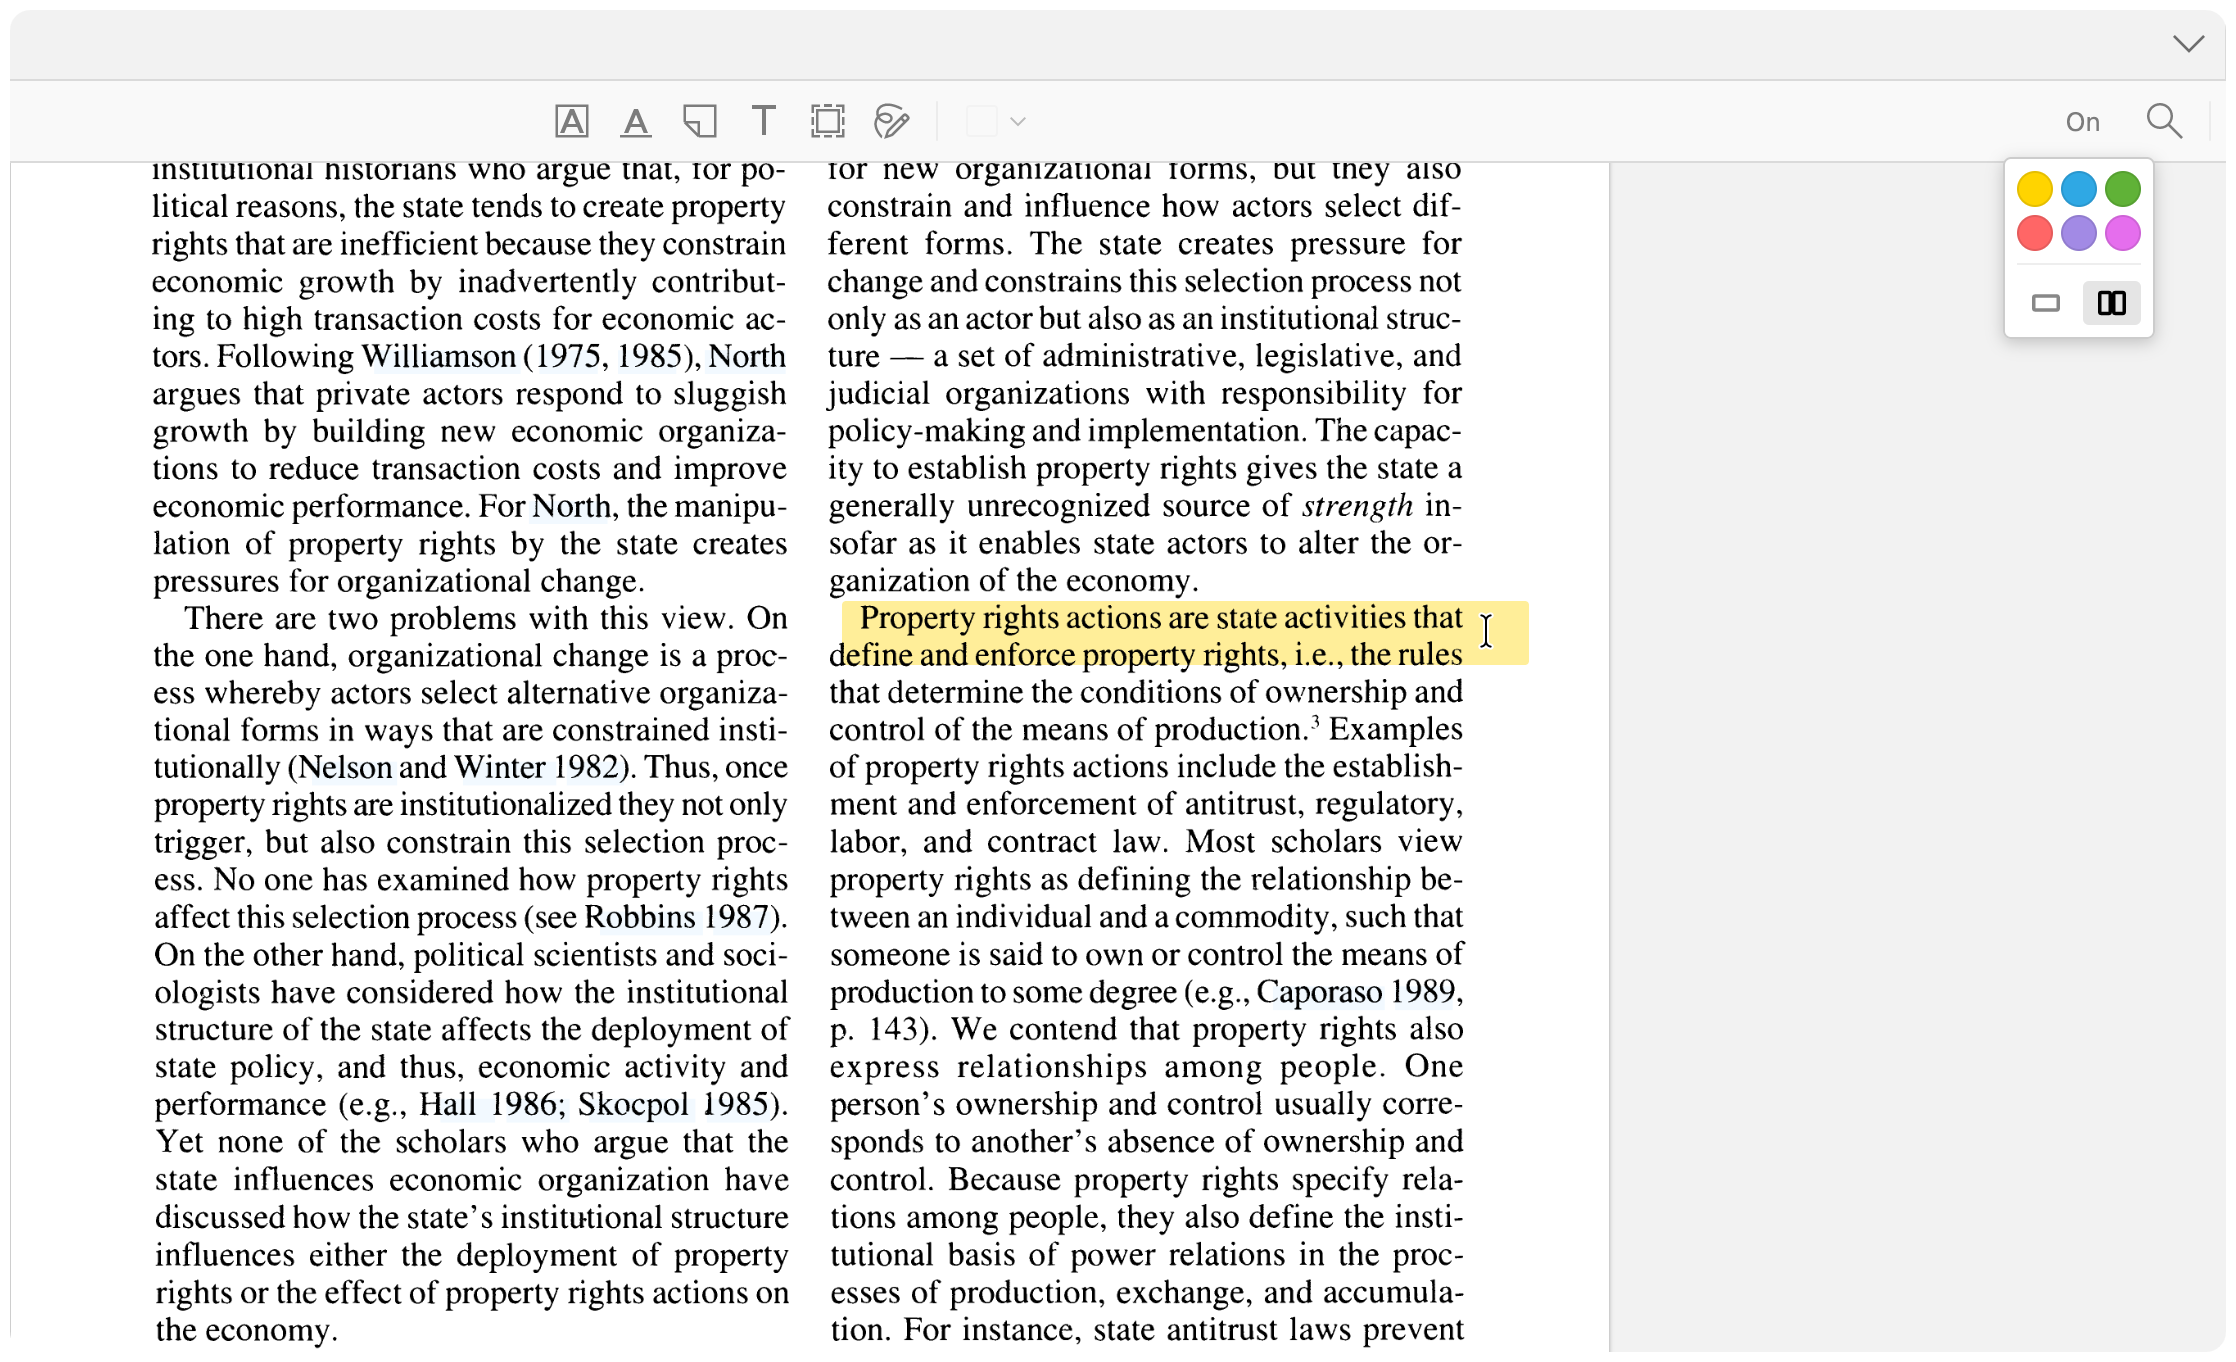
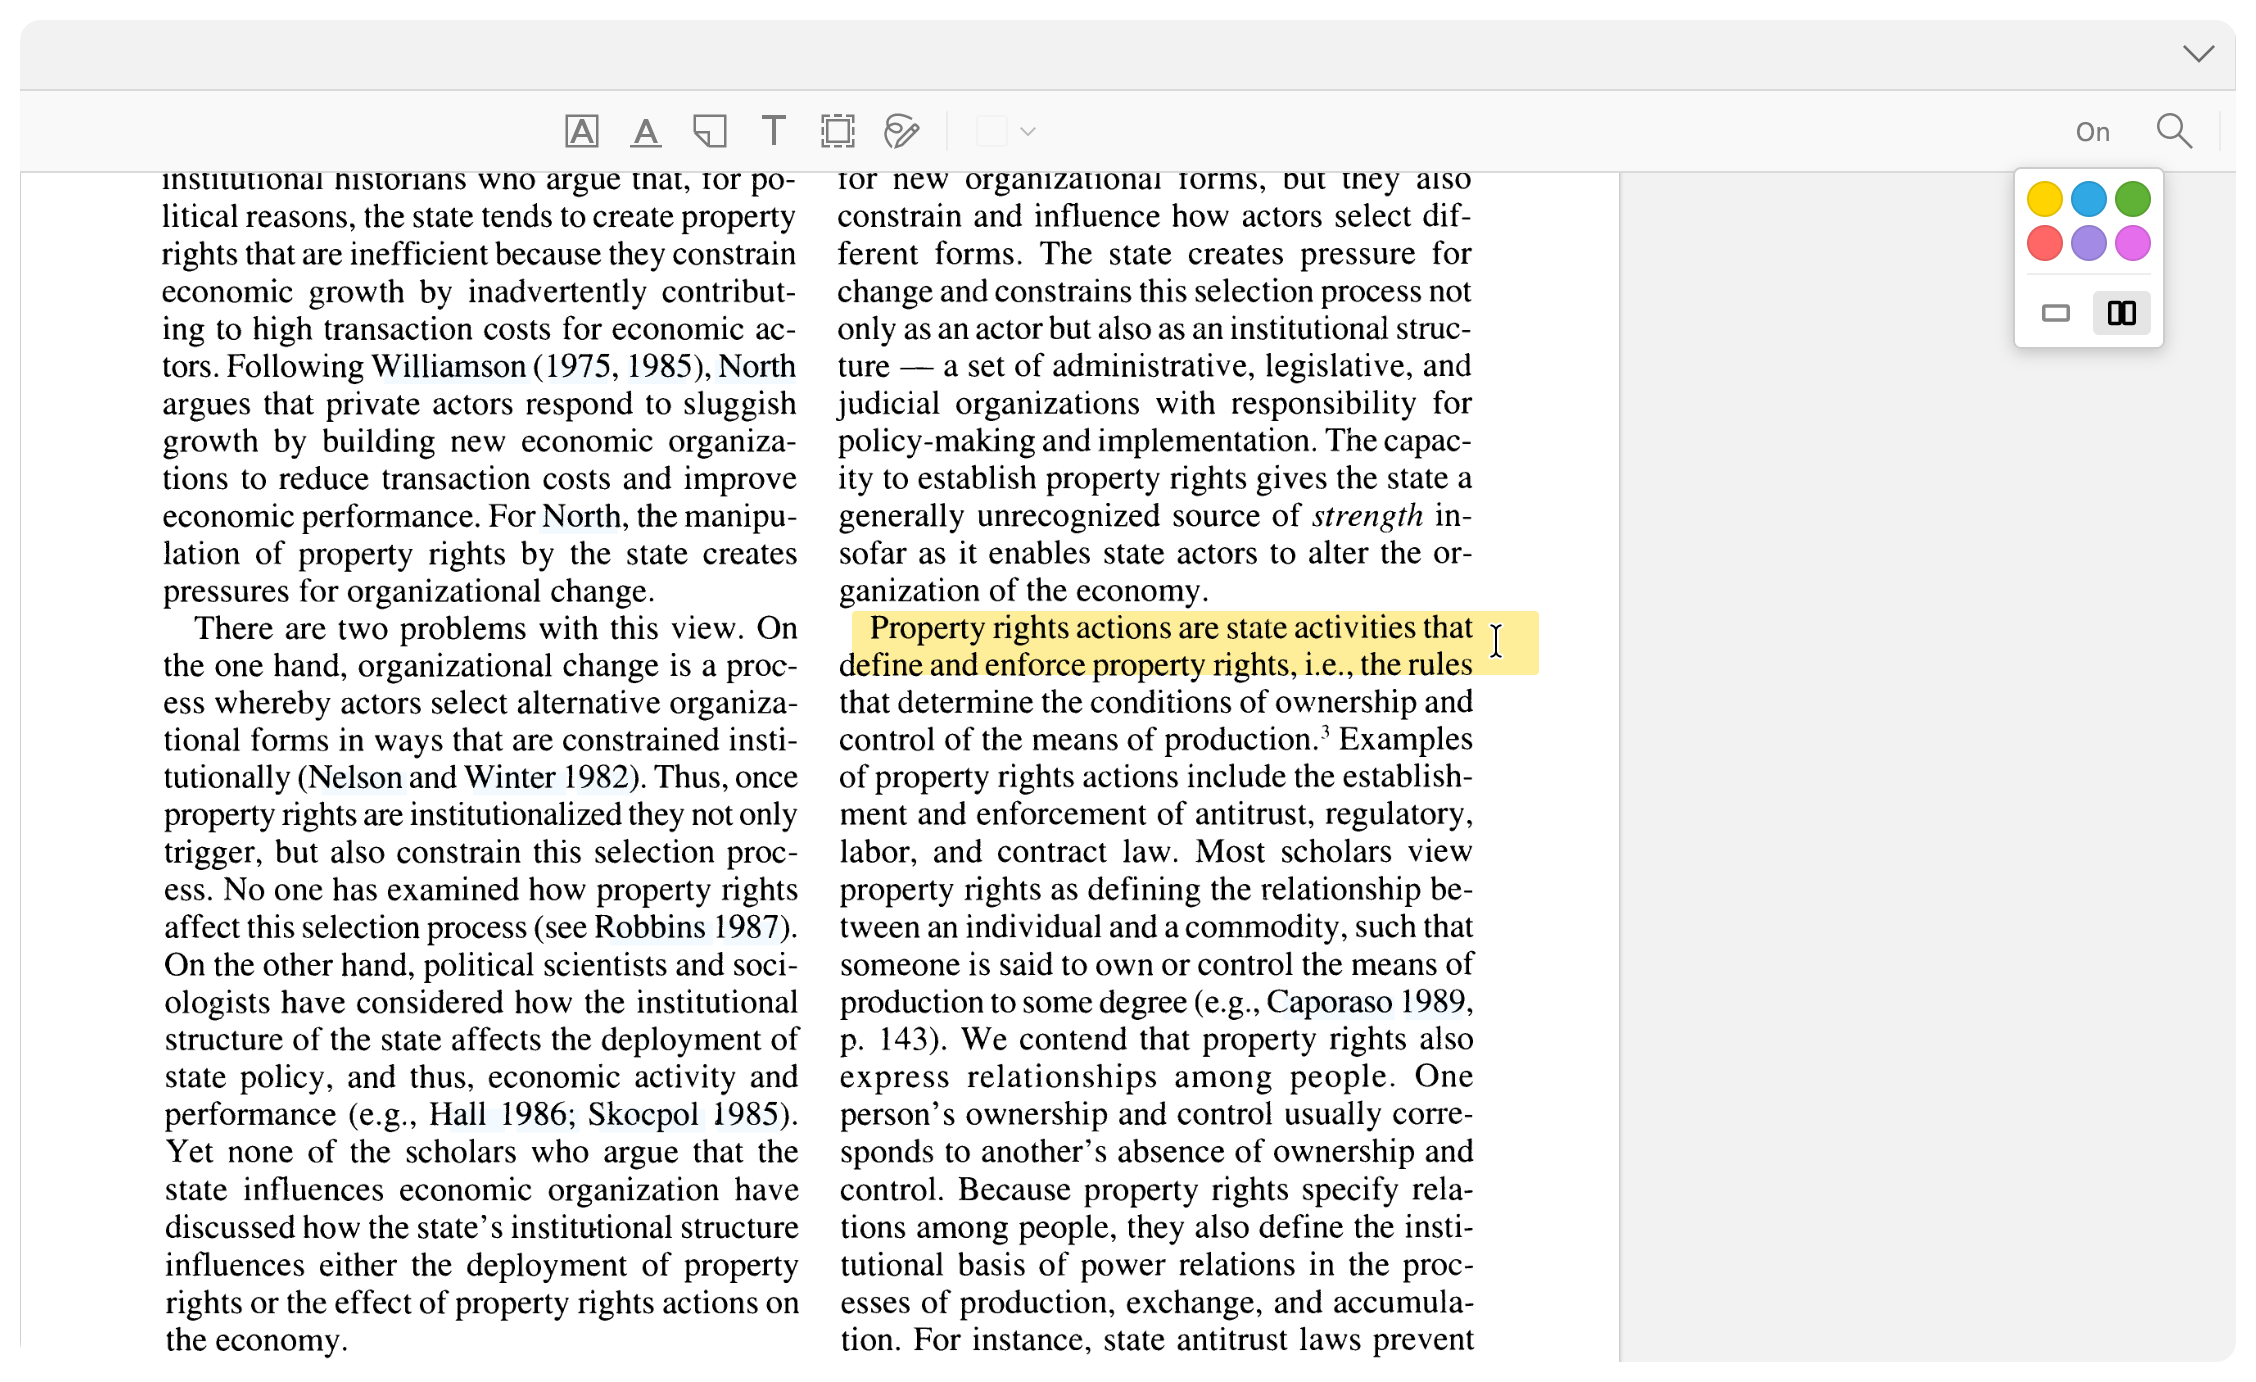
v0.1.1: Updated UI

Changed region(s): [[0.0617, 0.0617, 0.6789, 0.9868], [0.8949, 0.0617, 0.9875, 0.2775]]

diff --git a/src/modules/readingguide.ts b/src/modules/readingguide.ts
@@ -17,6 +17,8 @@ const COLORS = [
 // icons
 const ICON_FULL = `<svg width="14" height="14" viewBox="0 0 16 16" fill="none" stroke="currentColor" stroke-width="2"><rect x="1" y="4" width="14" height="8" rx="1"/></svg>`;
 const ICON_COLS = `<svg width="14" height="14" viewBox="0 0 16 16" fill="none" stroke="currentColor" stroke-width="2"><rect x="1" y="2" width="6" height="12" rx="1"/><rect x="9" y="2" width="6" height="12" rx="1"/></svg>`;
+// New cleaner chevron arrow
+const ICON_DOWN = `<svg width="10" height="10" viewBox="0 0 16 16" fill="none" stroke="currentColor" stroke-width="2" stroke-linecap="round" stroke-linejoin="round"><path d="M3 6L8 11L13 6"/></svg>`;
 
 export function initReadingGuide() {
   Zotero.Reader.registerEventListener(
@@ -42,7 +44,14 @@ export function initReadingGuide() {
         line?.remove();
         if (pdfDoc && mouseFn)
           pdfDoc.removeEventListener("mousemove", mouseFn, { capture: true });
-        if (rafId) win.cancelAnimationFrame(rafId);
+        
+        // FIX: If we cancel a pending frame, we MUST reset the variable to null
+        // otherwise the next 'inject' thinks we are still busy and deadlocks.
+        if (rafId) {
+            win.cancelAnimationFrame(rafId);
+            rafId = null; 
+        }
+        
         line = mouseFn = pdfDoc = null;
       };
 
@@ -104,10 +113,11 @@ export function initReadingGuide() {
         mouseFn = (e: MouseEvent) => {
           if (!line) return;
 
+          // If rafId is not null, it means a frame is already pending.
           if (rafId) return;
 
           rafId = win.requestAnimationFrame(() => {
-            rafId = null;
+            rafId = null; // Unlock for the next frame
             if (!line) return;
 
             if (line.style.transition === "none")
@@ -193,19 +203,41 @@ export function initReadingGuide() {
       }, 1000);
 
       // --- UI Setup ---
+      // We use a wrapper with gap:0 to make them look like one joined button
       const wrapper = doc.createElement("div");
       wrapper.style.cssText =
-        "position:relative; display:flex; align-items:center";
+        "position:relative; display:flex; align-items:center; gap:0;";
 
+      // 1. The Main Toggle Button
       const mainBtn = doc.createElement("button");
       mainBtn.className = `toolbar-button ${config.addonRef}-reader-button`;
-      mainBtn.title = "Toggle Guide (Alt+R)\nRight-click for options";
-      mainBtn.style.cssText = "min-width:40px; text-align:center";
+      mainBtn.title = "Toggle Guide (Alt+R)";
+      // FIX: Padding right adjusted to 4px to match arrow side
+      mainBtn.style.cssText =
+        "min-width:30px; text-align:center; border-top-right-radius:0; border-bottom-right-radius:0; padding-right:4px;";
       mainBtn.textContent = "Off";
       mainBtn.onclick = toggle;
 
-      mainBtn.oncontextmenu = (e) => {
+      // 2. The Separator Line (New Element)
+      // Height reduced to 12px. Color is neutral gray with low opacity.
+      const sep = doc.createElement("div");
+      sep.style.cssText =
+        "width:1px; height:12px; background-color:rgba(127, 127, 127, 0.3); margin:0;";
+
+      // 3. The Arrow Button (Triggers Menu)
+      const arrowBtn = doc.createElement("button");
+      arrowBtn.className = `toolbar-button ${config.addonRef}-arrow-button`;
+      arrowBtn.title = "Options";
+      arrowBtn.innerHTML = ICON_DOWN;
+      // FIX: Padding left adjusted to 4px. No border needed now.
+      arrowBtn.style.cssText =
+        "min-width:16px; padding:0 4px; border-top-left-radius:0; border-bottom-left-radius:0; display:flex; align-items:center; justify-content:center;";
+
+      // MENU LOGIC (Now triggered by Left Click on Arrow)
+      arrowBtn.onclick = (e) => {
         e.preventDefault();
+        e.stopPropagation();
+
         if (menu) {
           menu.remove();
           menu = null;
@@ -222,7 +254,8 @@ export function initReadingGuide() {
         Object.assign(menu.style, {
           position: "absolute",
           top: "115%",
-          left: "-50%",
+          // Align menu with the left of the button group
+          left: "0",
           backgroundColor: "#fff",
           border: "1px solid #ccc",
           borderRadius: "4px",
@@ -297,6 +330,8 @@ export function initReadingGuide() {
       };
 
       wrapper.appendChild(mainBtn);
+      wrapper.appendChild(sep); // Inject the separator
+      wrapper.appendChild(arrowBtn);
       append(wrapper);
     },
     addon.data.config.addonID,

diff --git a/README.md b/README.md
@@ -10,18 +10,18 @@ A simple tool to help you focus when reading long papers. It adds a highlighter 
 - **Focus ruler:** A transparent colored line follows your mouse to guide your reading
 - **2-column mode [beta]:** A mode to read two-column paper that snaps the guide to the text width (at least it that's what it is supposed to do)
 - **Keyboard shortcuts:** Toggle the guide on/off and change the mode without using the UI
-- **Custom colors:** Right-click the `Off/On` button to choose from standard highlighting colors (yellow, blue, green, etc.)
+- **Custom colors:** Choose from standard highlighting colors (yellow, blue, green, etc.)
 
 ## How to use
 
 1.  Open a PDF in Zotero
 2.  Click the `Off` button in the toolbar to turn it on
-3.  **Right-click** the button to change colors or switch to "column mode".
+3.  Click on the arrow next to the `Off/On` button to change colors or switch the "column mode"
 
 **Shortcuts:**
 
-- `Alt + R` (`Option` + `R` on Mac): Toggle on/off
-- `Alt + C` (`Option` + `C` on Mac): Toggle column mode
+- `Alt`+`R` (Windows) or `Option`+`R` (Mac): Toggle on/off
+- `Alt`+`C` (Windows) or `Option`+`C` (Mac): Toggle column mode
 
 ## Examples
 
@@ -42,4 +42,5 @@ _[Reading Guide: 2-Column Paper]_
 
 ## Changelog
 
+`v.0.1.1`: Updated the UI to better work on Windows
 `v.0.1.0`: Initial release
